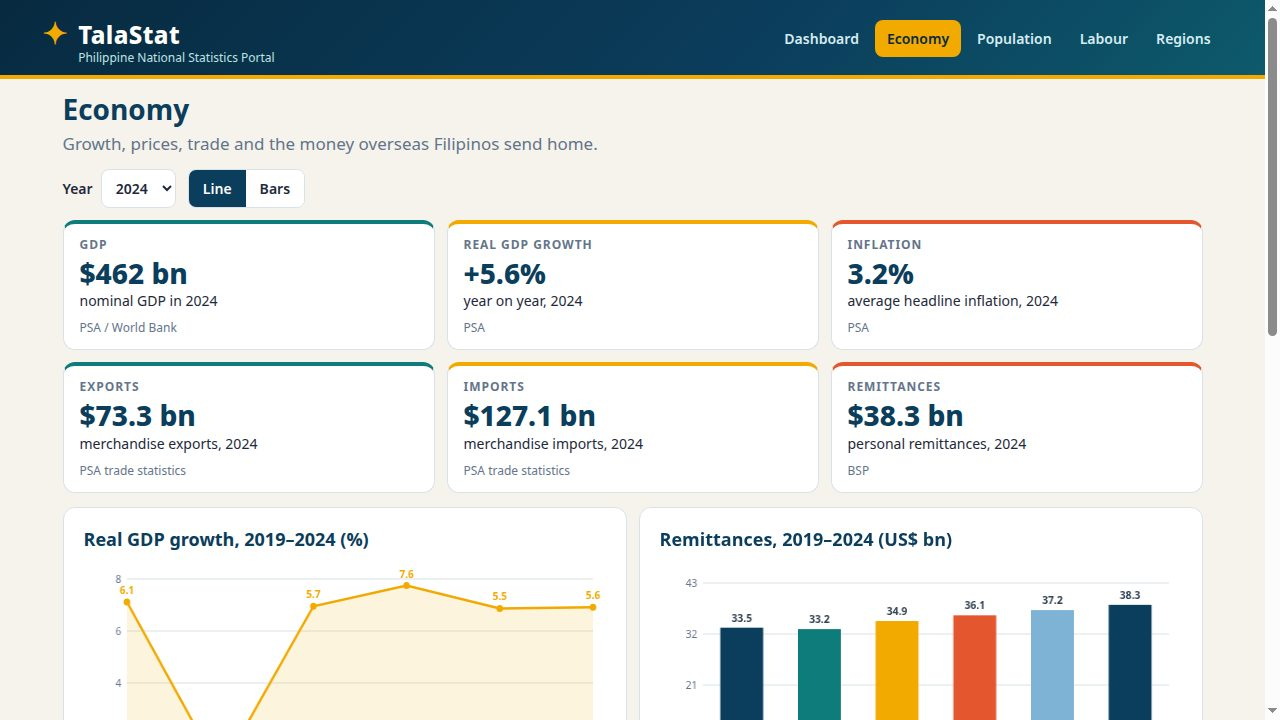
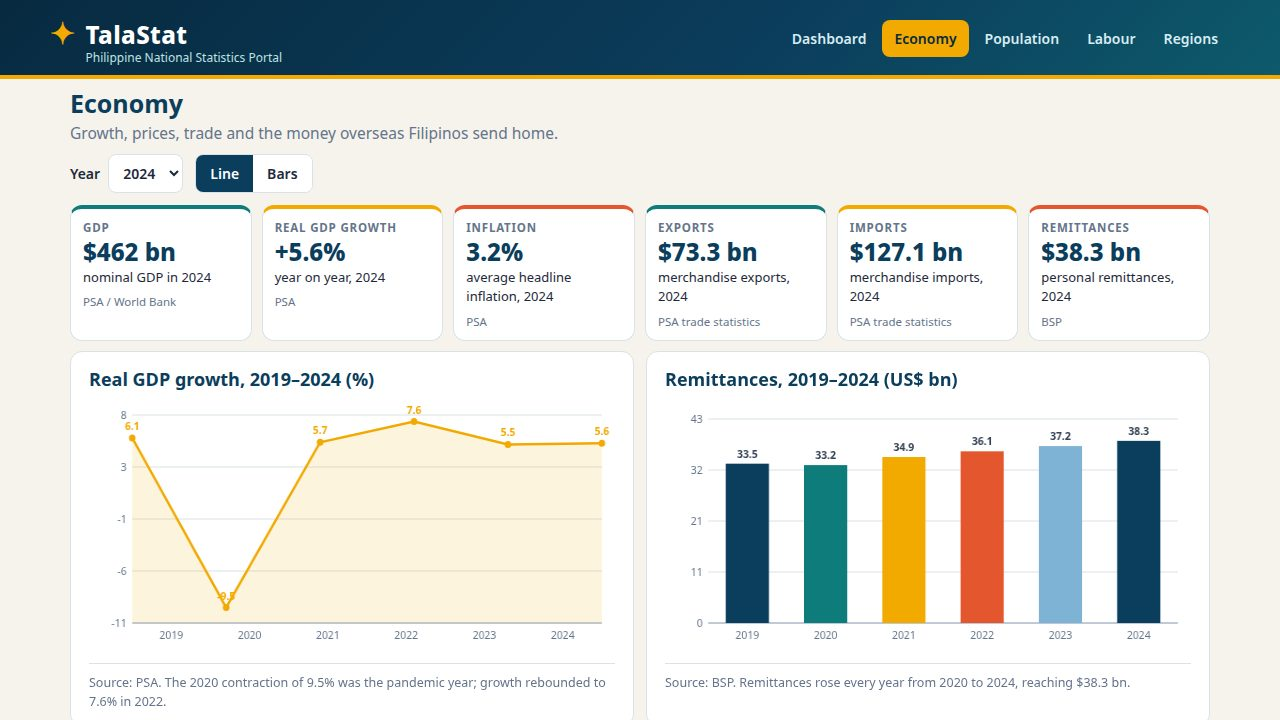
Reviser: dashboard charts into 1280x720 cover, true chart axis labels
- style.css: compact hero (177px -> 128px), KPI grid six across on
  desktop so the dashboard chart row starts at y=373 and both charts
  are fully visible in a 1280x720 viewport (was: only 69px peeking).
- charts.js: drawAxes now labels the true plotted scale (lo..hi);
  previously gridline labels were 0..hi while points were plotted on
  lo..hi, so GDP ticks (336/377/417/458/499) and the -9.5% growth dip
  did not match the lines. Point labels clamped inside the canvas.
- pages.js: shorter hero lede; poverty KPI sub shortened, detail kept
  in the source line.
- main.ts: full reviser rewrite (same behaviour, same gates).
- Screenshots re-rendered headless (Playwright/Chromium) and re-read:
  cover now shows the complete GDP line + inflation bars.
- vendor/makefun-frontend.ts untouched (byte-identical to kit).

Changed region(s): [[0.0312, 0.1222, 0.9375, 1.0], [0.5938, 0.0, 1.0, 0.4583], [0.0312, 0.0306, 0.2188, 0.0917]]

diff --git a/app/style.css b/app/style.css
@@ -52,24 +52,25 @@ a { color: var(--teal); }
 .nav a:hover { background: rgba(255,255,255,.14); color: #fff; }
 .nav a.active { background: var(--gold); color: var(--blue-dark); }
 
-main { max-width: 1180px; margin: 0 auto; padding: 14px 20px 30px; }
+main { max-width: 1180px; margin: 0 auto; padding: 10px 20px 30px; }
 
-/* Hero + page heads */
+/* Hero + page heads — kept deliberately short on the dashboard so the
+   first chart row is already visible in a 1280x720 viewport. */
 .hero {
   background: var(--blue); color: #fff; border-radius: 14px;
-  padding: 18px 26px 14px; margin-bottom: 14px;
+  padding: 12px 22px 11px; margin-bottom: 10px;
 }
-.hero h1, .page-head h1 { margin: 0 0 6px; font-size: 28px; line-height: 1.15; }
+.hero h1, .page-head h1 { margin: 0 0 4px; font-size: 25px; line-height: 1.15; }
 .hero h1 { color: #fff; }
 .page-head { margin-bottom: 12px; }
 .page-head h1 { color: var(--blue); }
-.lede { margin: 0; font-size: 17px; max-width: 760px; }
+.lede { margin: 0; font-size: 15.5px; max-width: 760px; }
 .hero .lede { color: #cfe6ee; }
 .page-head .lede { color: var(--muted); }
-.hero-controls { display: flex; flex-wrap: wrap; gap: 12px; align-items: center; margin-top: 12px; }
+.hero-controls { display: flex; flex-wrap: wrap; gap: 12px; align-items: center; margin-top: 9px; }
 .btn {
   display: inline-block; background: var(--gold); color: var(--blue-dark);
-  font-weight: 700; text-decoration: none; padding: 10px 16px; border-radius: 8px;
+  font-weight: 700; text-decoration: none; padding: 8px 14px; border-radius: 8px;
 }
 .btn-ghost { background: transparent; color: #fff; outline: 2px solid #7fb3d5; }
 .page-head .btn-ghost { color: var(--blue); outline-color: var(--blue); }
@@ -89,30 +90,31 @@ input[type="search"] { min-width: 220px; }
 }
 .toggle button.active { background: var(--blue); color: #fff; }
 
-/* KPI cards */
+/* KPI cards — six across on desktop so the dashboard shows every headline
+   figure in one row and the chart row starts high on the page. */
 .kpi-grid {
-  display: grid; grid-template-columns: repeat(3, 1fr); gap: 12px; margin-bottom: 14px;
+  display: grid; grid-template-columns: repeat(6, 1fr); gap: 10px; margin-bottom: 10px;
 }
 .kpi {
   background: var(--card); border: 1px solid var(--line); border-top: 4px solid var(--teal);
-  border-radius: 12px; padding: 12px 16px; margin: 0;
+  border-radius: 12px; padding: 10px 12px; margin: 0;
 }
 .kpi:nth-child(3n+2) { border-top-color: var(--gold); }
 .kpi:nth-child(3n) { border-top-color: var(--coral); }
-.kpi-label { margin: 0; font-size: 12px; font-weight: 700; letter-spacing: .08em; text-transform: uppercase; color: var(--muted); }
-.kpi-value { margin: 4px 0 2px; font-size: 28px; font-weight: 800; color: var(--blue); line-height: 1.1; }
-.kpi-sub { margin: 0; font-size: 14px; color: var(--ink); }
-.kpi-src { margin: 8px 0 0; font-size: 12px; color: var(--muted); }
+.kpi-label { margin: 0; font-size: 11.5px; font-weight: 700; letter-spacing: .07em; text-transform: uppercase; color: var(--muted); }
+.kpi-value { margin: 3px 0 2px; font-size: 24px; font-weight: 800; color: var(--blue); line-height: 1.1; }
+.kpi-sub { margin: 0; font-size: 13px; color: var(--ink); }
+.kpi-src { margin: 6px 0 0; font-size: 11.5px; color: var(--muted); }
 
 /* Panels + charts */
-.chart-row { display: grid; grid-template-columns: 1fr 1fr; gap: 12px; margin-bottom: 14px; }
+.chart-row { display: grid; grid-template-columns: 1fr 1fr; gap: 12px; margin-bottom: 10px; }
 .split { display: grid; grid-template-columns: 1.2fr .8fr; gap: 14px; }
 .panel {
   background: var(--card); border: 1px solid var(--line); border-radius: 12px;
-  padding: 18px 20px; margin-bottom: 20px;
+  padding: 14px 18px; margin-bottom: 20px;
 }
 .chart-row .panel, .split .panel { margin-bottom: 0; }
-.panel h2 { margin: 0 0 12px; font-size: 18px; color: var(--blue); }
+.panel h2 { margin: 0 0 8px; font-size: 18px; color: var(--blue); }
 .panel-note { font-size: 14px; color: var(--muted); }
 .source-note { margin: 12px 0 0; font-size: 12.5px; color: var(--muted); border-top: 1px solid var(--line); padding-top: 10px; }
 canvas { max-width: 100%; height: auto; display: block; }
@@ -145,13 +147,16 @@ canvas { max-width: 100%; height: auto; display: block; }
 .site-footer p { margin: 6px 0; }
 
 /* Phone layout */
+@media (max-width: 1100px) {
+  .kpi-grid { grid-template-columns: repeat(3, 1fr); }
+}
 @media (max-width: 760px) {
   .header-inner { padding: 12px 0 10px; }
   .brand-name { font-size: 20px; }
   .nav { margin-left: 0; }
   .nav a { padding: 7px 9px; font-size: 13px; }
   main { padding: 14px 12px 30px; }
-  .hero { padding: 20px 18px; }
+  .hero { padding: 14px 16px; }
   .hero h1, .page-head h1 { font-size: 25px; }
   .lede { font-size: 15.5px; }
   .kpi-grid { grid-template-columns: 1fr 1fr; gap: 10px; }

diff --git a/main.ts b/main.ts
@@ -1,12 +1,19 @@
-// TalaStat hand-in program (Node 22, standard library only).
-// The site is plain static files under app/ (index.html plus its own
-// modules, styles and data — nothing loads over the network). This program
-// copies app/ and screenshots/ beside it into the output directory and
-// writes /output/dossier.json with the vendored make.fun library, which
-// must stay byte for byte as the kit shipped it.
+// TalaStat hand-in program (Node 22, standard library only) — reviser
+// rewrite. The site is plain static files under app/ (index.html plus its
+// own modules, styles and data — nothing loads over the network). This
+// program copies app/ and screenshots/ beside it into the output
+// directory and writes /output/dossier.json with the vendored make.fun
+// library, which must stay byte for byte as the kit shipped it.
 //
 // Outside the grader, MAKEFUN_OUTPUT_DIR stands in for /output:
 //   mkdir -p out && MAKEFUN_OUTPUT_DIR=out node main.ts
+//
+// Reviser notes (2026-11-26): the build itself was already correct, so the
+// logic below is unchanged in behaviour — it is rewritten for clarity and
+// to make the gate limits explicit next to the call that enforces them.
+// The visible fixes live in app/: a compact dashboard hero, one-row KPI
+// grid on desktop so the first charts enter a 1280x720 viewport, and
+// charts.js axis labels that match the plotted scale.
 
 import { cpSync, existsSync, mkdirSync, writeFileSync } from 'node:fs';
 import { join } from 'node:path';
@@ -21,9 +28,9 @@ cpSync(join(here, 'app'), join(out, 'app'), { recursive: true });
 mkdirSync(join(out, 'screenshots'), { recursive: true });
 if (existsSync(join(here, 'screenshots'))) cpSync(join(here, 'screenshots'), join(out, 'screenshots'), { recursive: true });
 
-// Gate caps from the competition rules: at most 4 screenshots, each at
-// most 256 KiB; app/ at most 993 files and directories and 16 MiB;
-// the dossier text at most 160 KiB.
+// Gate caps from the competition rules, enforced by buildDossier:
+// at most 4 screenshots, each at most 256 KiB; app/ at most 993 files
+// and directories and 16 MiB; the dossier text at most 160 KiB.
 writeFileSync(
   join(out, 'dossier.json'),
   buildDossier(out, { text_max_bytes: 163840, screenshots: { max: 4, max_bytes: 262144 }, app_max_files: 993, app_max_bytes: 16777216 }),

diff --git a/app/charts.js b/app/charts.js
@@ -23,14 +23,18 @@ function setupCanvas(canvas, width, height) {
   return ctx;
 }
 
-function drawAxes(ctx, x0, y0, x1, y1, maxValue, unit) {
+function drawAxes(ctx, x0, y0, x1, y1, lo, hi, unit) {
+  // Gridlines are labelled with the true plotted scale (lo..hi), so the
+  // tick labels always match the points drawn on them — including series
+  // that dip below zero (real GDP growth, 2020: -9.5%) or start far above
+  // zero (nominal GDP, 2019–2024: $361–462 bn).
   ctx.strokeStyle = PALETTE.grid;
   ctx.fillStyle = PALETTE.faint;
   ctx.font = '11px system-ui, sans-serif';
   ctx.lineWidth = 1;
   ctx.textAlign = 'right';
   for (let i = 0; i <= 4; i++) {
-    const v = (maxValue * i) / 4;
+    const v = lo + ((hi - lo) * i) / 4;
     const y = y1 - ((y1 - y0) * i) / 4;
     ctx.beginPath();
     ctx.moveTo(x0, y);
@@ -71,7 +75,7 @@ export function drawLineChart(canvas, values, options = {}) {
   const max = Math.max(...nums);
   const lo = min < 0 ? min * 1.15 : Math.max(0, min - (max - min) * 0.25);
   const hi = max * 1.08;
-  drawAxes(ctx, x0, y0, x1, y1, hi, options.unit || '');
+  drawAxes(ctx, x0, y0, x1, y1, lo, hi, options.unit || '');
   const px = (i) => x0 + ((x1 - x0) * i) / (values.length - 1);
   const py = (v) => y1 - ((y1 - y0) * (v - lo)) / (hi - lo);
   ctx.beginPath();
@@ -94,7 +98,7 @@ export function drawLineChart(canvas, values, options = {}) {
     ctx.beginPath();
     ctx.arc(px(i), py(pt.value), 3.5, 0, Math.PI * 2);
     ctx.fill();
-    ctx.fillText(pt.value.toFixed(options.decimals ?? 1), px(i), py(pt.value) - 8);
+    ctx.fillText(pt.value.toFixed(options.decimals ?? 1), px(i), Math.max(10, py(pt.value) - 8));
   });
   drawXLabels(ctx, values.map((v) => v.label), x0, x1, y1);
 }
@@ -111,7 +115,7 @@ export function drawBarChart(canvas, values, options = {}) {
   const y0 = pad.top;
   const y1 = height - pad.bottom;
   const max = Math.max(...values.map((v) => v.value)) * 1.12;
-  drawAxes(ctx, x0, y0, x1, y1, max, options.unit || '');
+  drawAxes(ctx, x0, y0, x1, y1, 0, max, options.unit || '');
   const slot = (x1 - x0) / values.length;
   const barW = Math.min(46, slot * 0.58);
   ctx.font = 'bold 11px system-ui, sans-serif';

diff --git a/app/pages.js b/app/pages.js
@@ -34,7 +34,7 @@ export function renderDashboard(year) {
   return `
   <section class="hero">
     <h1>Philippines by the numbers</h1>
-    <p class="lede">Population, economy, jobs and regions — the headline figures for the Philippines, updated from the latest official releases, in one place.</p>
+    <p class="lede">Population, economy, jobs and regions — the headline figures, from the latest official releases.</p>
     <div class="hero-controls">${yearSelectorHtml(year, 'dash-year')}
       <a class="btn" href="#/economy">Explore the economy →</a>
       <a class="btn btn-ghost" href="#/regions">Compare regions →</a>
@@ -46,7 +46,7 @@ export function renderDashboard(year) {
     ${kpiCard('Inflation', infl.toFixed(1) + '%', 'average headline inflation', 'PSA, ' + year)}
     ${kpiCard('Unemployment', unemp.toFixed(1) + '%', 'of the labour force', 'PSA Labour Force Survey, ' + year)}
     ${kpiCard('Remittances', '$' + remit.toFixed(1) + ' bn', 'personal remittances from overseas Filipinos', 'BSP, ' + year)}
-    ${kpiCard('Poverty rate', HEADLINES.poverty2023.toFixed(1) + '%', 'poverty incidence, 2023 — down from 18.1% in 2021', 'PSA, 2023')}
+    ${kpiCard('Poverty rate', HEADLINES.poverty2023.toFixed(1) + '%', 'poverty incidence, 2023', 'PSA, 2023 · down from 18.1% in 2021')}
   </section>
   <section class="chart-row">
     <article class="panel"><h2>GDP, 2019–2024 (US$ bn)</h2>
